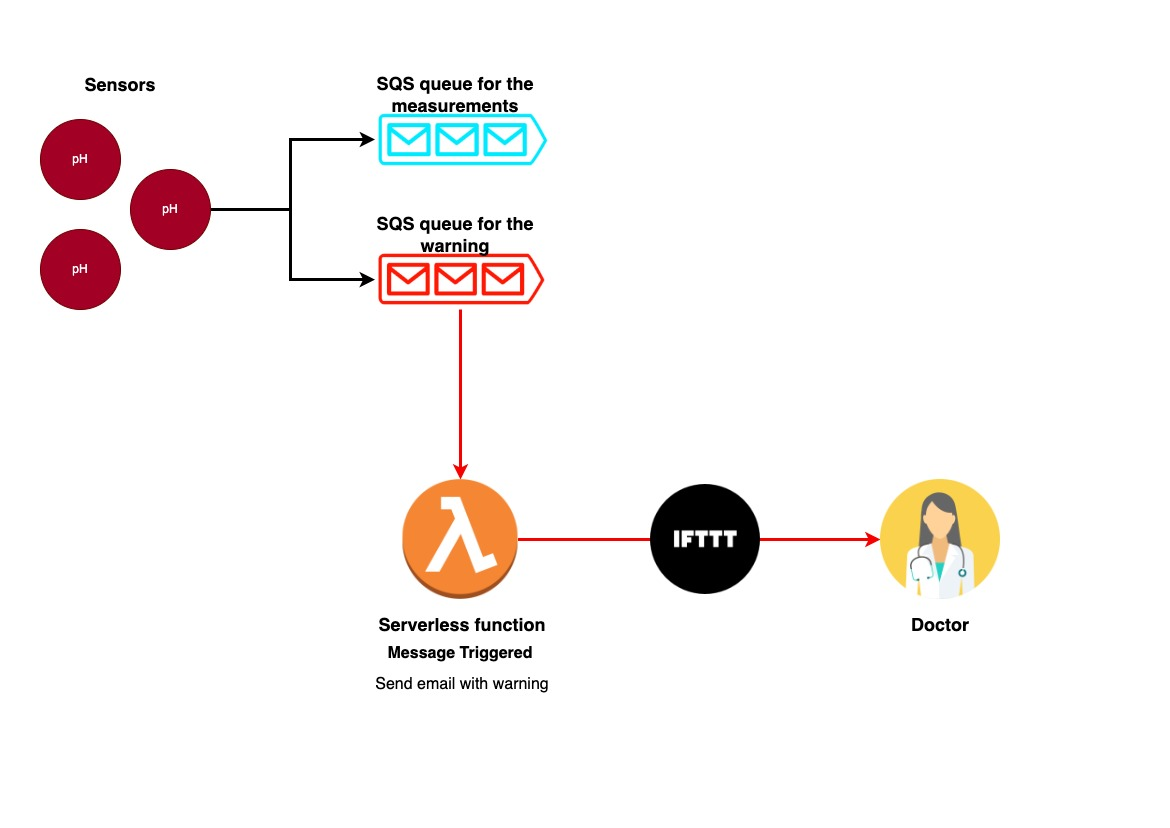
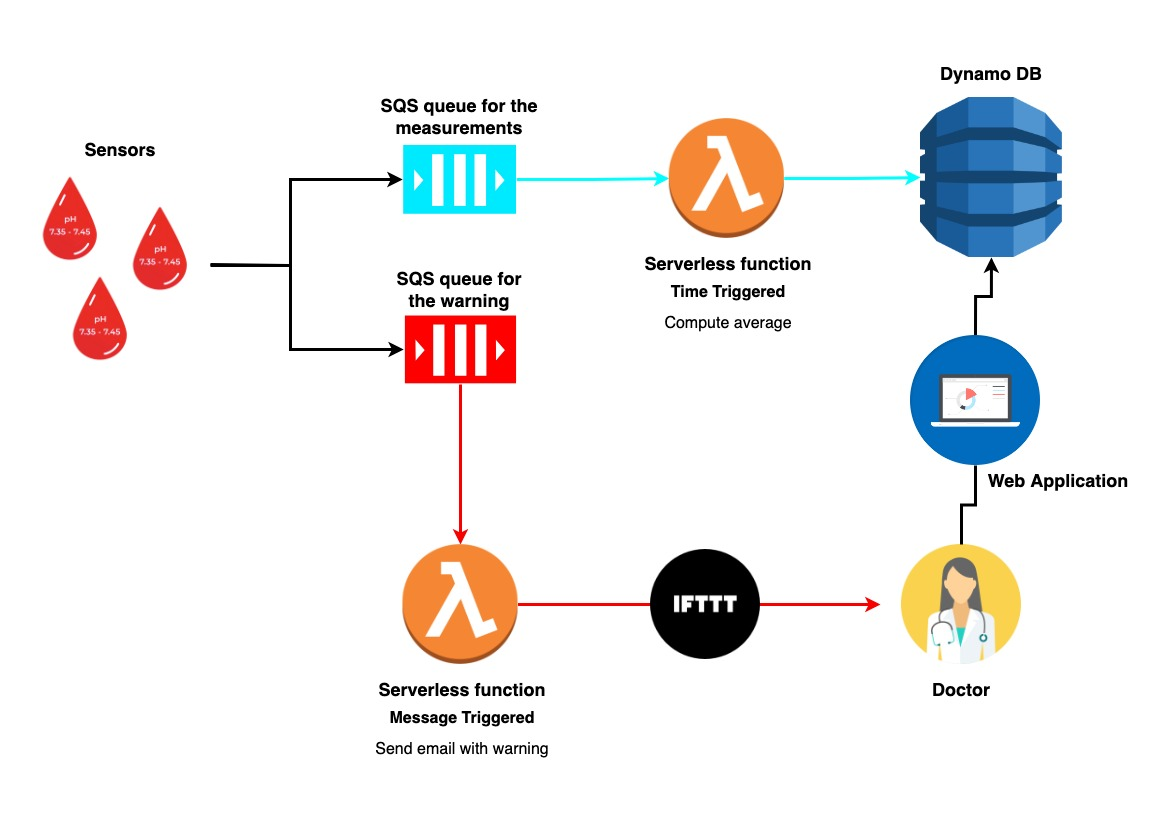
update README.md, add architecture

diff --git a/README.md b/README.md
@@ -33,13 +33,15 @@ The messages will be sent on two queues according to the pH value. If the value 
 - The DynamoDB GUI is available using [dynamodb-admin](https://github.com/aaronshaf/dynamodb-admin).
 
 
-## Installation and usage
-### Prerequisites
+
+## Prerequisites
 1. [Docker](https://docs.docker.com/get-docker/);
 2. [AWS CLI](https://docs.aws.amazon.com/cli/latest/userguide/getting-started-install.html);
 3. [boto3](https://boto3.amazonaws.com/v1/documentation/api/latest/guide/quickstart.html).
-4. nodejs
-### Setting up the environment
+4. (Optional) nodejs for database visualization.
+
+
+## Setting up the environment
 **1. Clone the repository**
 
 ```
